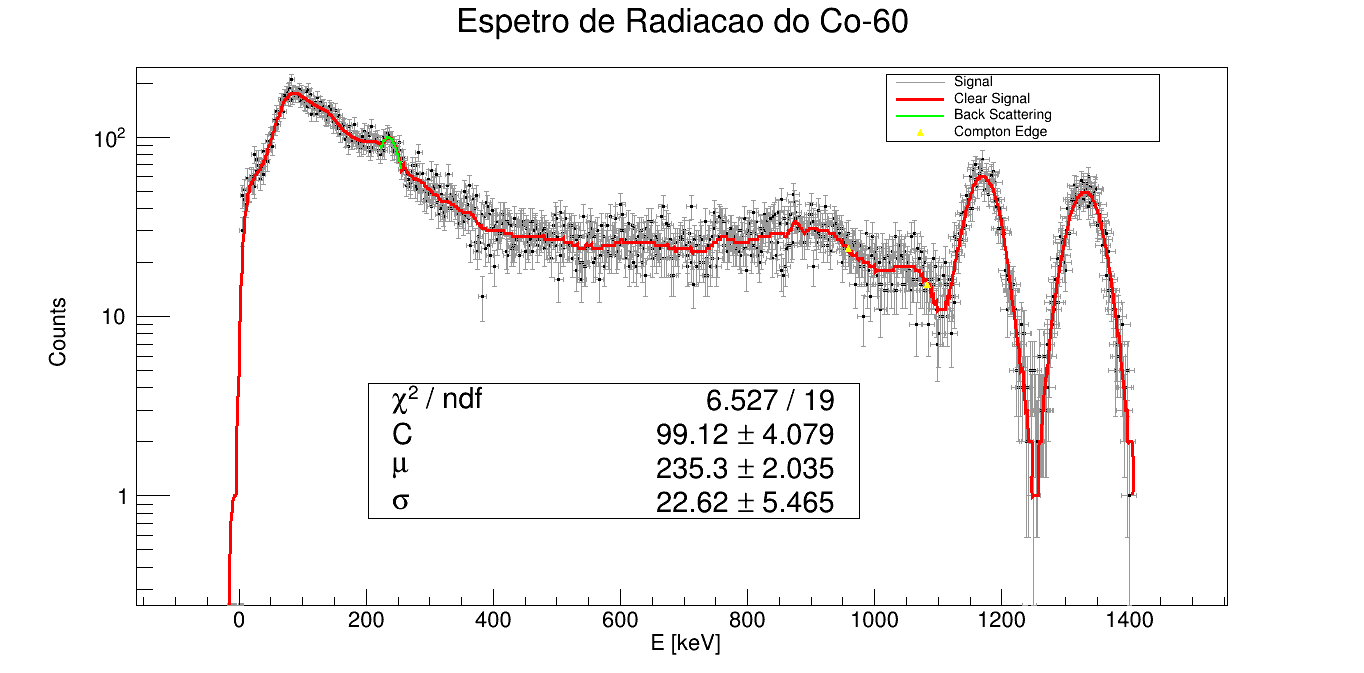
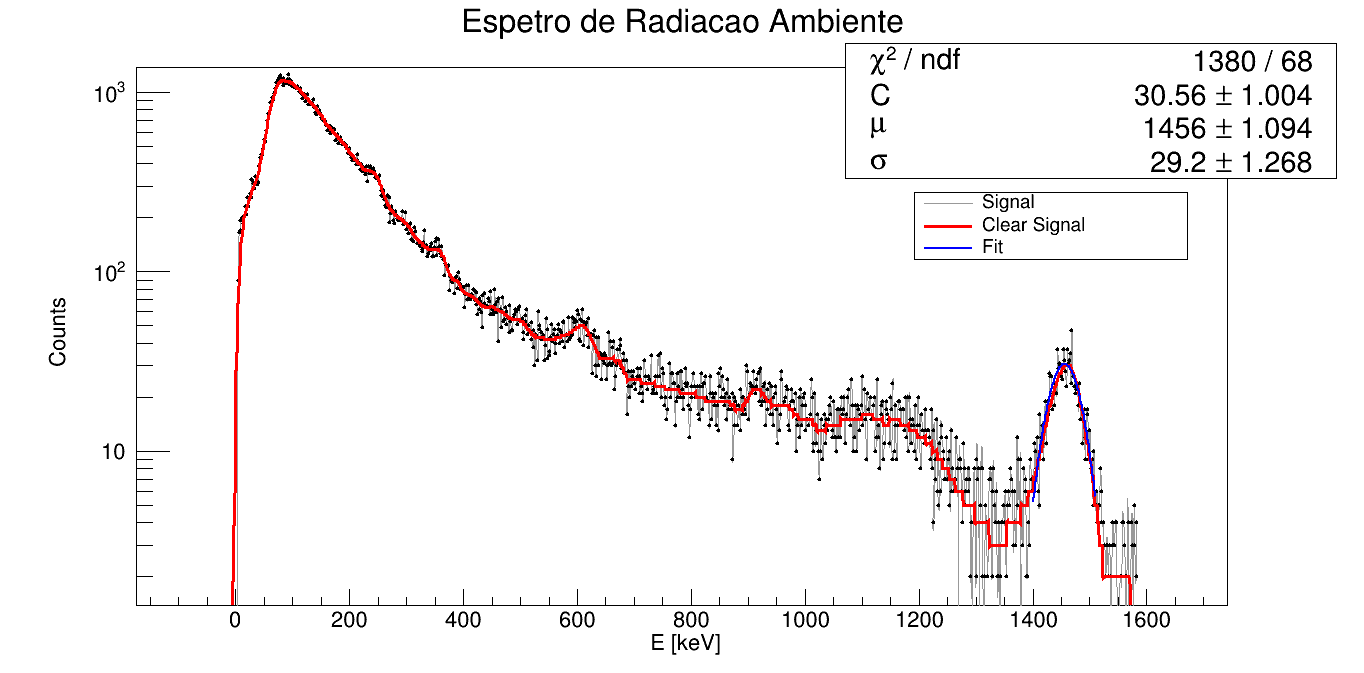
done?

diff --git a/Gama/main/Analise.cpp b/Gama/main/Analise.cpp
@@ -69,6 +69,7 @@ int main(){
 
     
     // Espetro de Radiação do Ambiente
+    gStyle->SetOptFit(kTRUE);
     TGraph G_Amb; 
     vector<pair<double, double>> rad_ambiente;
     ReadFile("Data_Files/Ruido_Energy.dat", rad_ambiente);
@@ -95,22 +96,30 @@ int main(){
     G_Amb_Smoothed.SetMarkerSize(0.5);
     G_Amb_Smoothed.SetLineWidth(3);
 
+    TF1 *F_Amb = new TF1("F_Amb", "[0]*exp(-0.5*((x-[1])/[2])**2)", 1400, 1510);
+    F_Amb->SetParNames("C","#mu", "#sigma");
+    F_Amb->SetParameters(50, 1460, 30);
+    F_Amb->SetLineColor(kBlue);
+    G_Amb.Fit("F_Amb","","",1400,1510);
+
     // Create a legend
     TLegend* ambient = new TLegend(0.65, 0.75, 0.85, 0.85); // Specify the position of the legend
     
     // Add an entry to the legend
     ambient->AddEntry(&G_Amb, "Signal", "l"); // "p" for a point
     ambient->AddEntry(&G_Amb_Smoothed, "Clear Signal", "l"); // "l" for a solid line
-
+    ambient->AddEntry(F_Amb, "Fit", "l");
 
     c1.Clear();
-    G_Amb.Draw("AC");
+    G_Amb.Draw("APC");
     G_Amb_Smoothed.Draw("same C");
+    F_Amb->Draw("same C");
     ambient->Draw();
     c1.SetLogy();
     c1.Update();
     c1.SaveAs("Graphs/Espetro_Ambiente_Smoothed.png");
     c1.WaitPrimitive();
+    A.Run("TRUE");
     gSystem->ProcessEvents();
 
         
